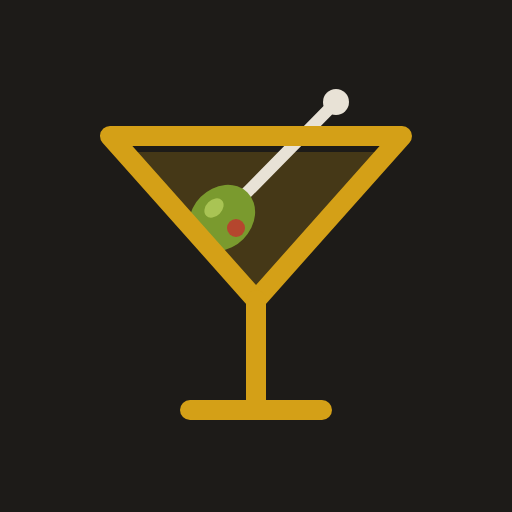
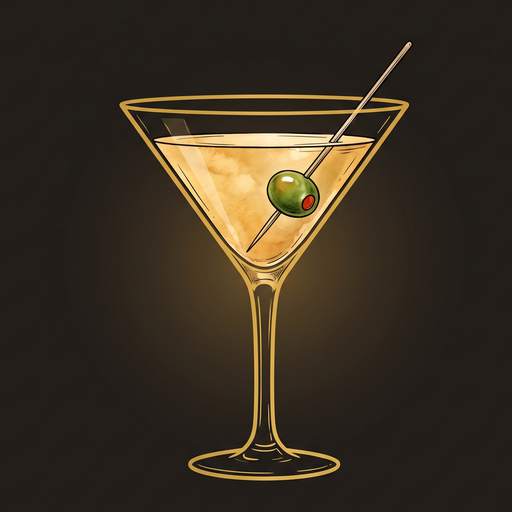
Nouvelle icône d'application (aquarelle Flow)
Claude-Session: https://claude.ai/code/session_017Zjpt6S1EDsr8xtp7PSGq8

Changed region(s): [[0.1875, 0.0625, 0.8125, 0.9375]]

diff --git a/sw.js b/sw.js
@@ -1,7 +1,7 @@
 // Fonctionnement hors connexion : le site est mis en cache à la première visite.
 // Changer VERSION à chaque mise à jour du contenu pour rafraîchir le cache.
-const VERSION = "socle-v30";
-const FICHIERS = ["./", "fonts/bebas-neue.woff2", "fonts/dm-sans-400.woff2", "fonts/dm-sans-500.woff2", "fonts/dm-sans-700.woff2", "app.js?v=30", "data/alcools.js?v=30", "data/cocktails.js?v=30", "data/savoirs.js?v=30", "data/emblemes.js?v=30", "data/autres.js?v=30", "img/accueil/poster.jpg", "img/bouteilles/bitter.png", "img/bouteilles/cachaca.png", "img/bouteilles/champagne.png", "img/bouteilles/cognac.png", "img/bouteilles/gin.png", "img/bouteilles/liqueurs.png", "img/bouteilles/rhum.png", "img/bouteilles/tequila.png", "img/bouteilles/vermouth-martini.png", "img/bouteilles/vermouth.png", "img/bouteilles/vodka.png", "img/bouteilles/whisky.png", "img/bouteilles/xeres.png", "img/bouteilles/x-anises.png", "img/bouteilles/x-armagnac.png", "img/bouteilles/x-calvados.png", "img/bouteilles/x-gentianes.png", "img/bouteilles/x-quinquinas.png", "img/bouteilles/x-vins-de-liqueur.png", "img/bouteilles/x-vins-doux-naturels.png", "img/cocktails/americano.jpg", "img/cocktails/aviation.jpg", "img/cocktails/bamboo.jpg", "img/cocktails/bellini.jpg", "img/cocktails/bloody-mary.jpg", "img/cocktails/bramble.jpg", "img/cocktails/caipirinha.jpg", "img/cocktails/champagne-cocktail.jpg", "img/cocktails/cosmopolitan.jpg", "img/cocktails/daiquiri.jpg", "img/cocktails/dark-and-stormy.jpg", "img/cocktails/dry-martini.jpg", "img/cocktails/espresso-martini.jpg", "img/cocktails/fizz.jpg", "img/cocktails/french-75.jpg", "img/cocktails/gin-basil-smash.jpg", "img/cocktails/horses-neck.jpg", "img/cocktails/mai-tai.jpg", "img/cocktails/manhattan.jpg", "img/cocktails/margarita.jpg", "img/cocktails/mint-julep.jpg", "img/cocktails/mojito.jpg", "img/cocktails/moscow-mule.jpg", "img/cocktails/negroni.jpg", "img/cocktails/old-fashioned.jpg", "img/cocktails/paloma.jpg", "img/cocktails/penicillin.jpg", "img/cocktails/pina-colada.jpg", "img/cocktails/planters-punch.jpg", "img/cocktails/pornstar-martini.jpg", "img/cocktails/rum-swizzle.jpg", "img/cocktails/sex-on-the-beach.jpg", "img/cocktails/sidecar.jpg", "img/cocktails/sour.jpg", "img/cocktails/spritz.jpg", "img/cocktails/tequila-sunrise.jpg", "img/icone/apple-touch-icon.png", "img/icone/favicon-32.png", "img/icone/icone-192.png", "img/icone/icone-512.png", "img/materiel/bec-verseur.jpg", "img/materiel/cuillere-bar.jpg", "img/materiel/doseur.jpg", "img/materiel/eplucheur.jpg", "img/materiel/passoire-cocktail.jpg", "img/materiel/passoire-fine.jpg", "img/materiel/passoire-julep.jpg", "img/materiel/pilon.jpg", "img/materiel/presse-agrumes.jpg", "img/materiel/shaker-boston.jpg", "img/materiel/shaker-continental.jpg", "img/materiel/shaker-trois-pieces.jpg", "img/materiel/verre-melange.jpg", "img/verres/absinthe.jpg", "img/verres/biere.jpg", "img/verres/copa.jpg", "img/verres/coupe.jpg", "img/verres/degustation.jpg", "img/verres/digestif.jpg", "img/verres/fantaisie.jpg", "img/verres/flute.jpg", "img/verres/highball.jpg", "img/verres/hurricane.jpg", "img/verres/julep.jpg", "img/verres/martini.jpg", "img/verres/mule.jpg", "img/verres/nick-nora.jpg", "img/verres/old-fashioned.jpg", "img/verres/punch.jpg", "img/verres/shot.jpg", "img/verres/tiki.jpg", "img/verres/toddy.jpg", "img/verres/vin.jpg", "index.html", "manifest.webmanifest?v=30", "style.css?v=30"];
+const VERSION = "socle-v31";
+const FICHIERS = ["./", "fonts/bebas-neue.woff2", "fonts/dm-sans-400.woff2", "fonts/dm-sans-500.woff2", "fonts/dm-sans-700.woff2", "app.js?v=31", "data/alcools.js?v=31", "data/cocktails.js?v=31", "data/savoirs.js?v=31", "data/emblemes.js?v=31", "data/autres.js?v=31", "img/accueil/poster.jpg", "img/bouteilles/bitter.png", "img/bouteilles/cachaca.png", "img/bouteilles/champagne.png", "img/bouteilles/cognac.png", "img/bouteilles/gin.png", "img/bouteilles/liqueurs.png", "img/bouteilles/rhum.png", "img/bouteilles/tequila.png", "img/bouteilles/vermouth-martini.png", "img/bouteilles/vermouth.png", "img/bouteilles/vodka.png", "img/bouteilles/whisky.png", "img/bouteilles/xeres.png", "img/bouteilles/x-anises.png", "img/bouteilles/x-armagnac.png", "img/bouteilles/x-calvados.png", "img/bouteilles/x-gentianes.png", "img/bouteilles/x-quinquinas.png", "img/bouteilles/x-vins-de-liqueur.png", "img/bouteilles/x-vins-doux-naturels.png", "img/cocktails/americano.jpg", "img/cocktails/aviation.jpg", "img/cocktails/bamboo.jpg", "img/cocktails/bellini.jpg", "img/cocktails/bloody-mary.jpg", "img/cocktails/bramble.jpg", "img/cocktails/caipirinha.jpg", "img/cocktails/champagne-cocktail.jpg", "img/cocktails/cosmopolitan.jpg", "img/cocktails/daiquiri.jpg", "img/cocktails/dark-and-stormy.jpg", "img/cocktails/dry-martini.jpg", "img/cocktails/espresso-martini.jpg", "img/cocktails/fizz.jpg", "img/cocktails/french-75.jpg", "img/cocktails/gin-basil-smash.jpg", "img/cocktails/horses-neck.jpg", "img/cocktails/mai-tai.jpg", "img/cocktails/manhattan.jpg", "img/cocktails/margarita.jpg", "img/cocktails/mint-julep.jpg", "img/cocktails/mojito.jpg", "img/cocktails/moscow-mule.jpg", "img/cocktails/negroni.jpg", "img/cocktails/old-fashioned.jpg", "img/cocktails/paloma.jpg", "img/cocktails/penicillin.jpg", "img/cocktails/pina-colada.jpg", "img/cocktails/planters-punch.jpg", "img/cocktails/pornstar-martini.jpg", "img/cocktails/rum-swizzle.jpg", "img/cocktails/sex-on-the-beach.jpg", "img/cocktails/sidecar.jpg", "img/cocktails/sour.jpg", "img/cocktails/spritz.jpg", "img/cocktails/tequila-sunrise.jpg", "img/icone/apple-touch-icon.png", "img/icone/favicon-32.png", "img/icone/icone-192.png", "img/icone/icone-512.png", "img/icone/icone-maskable-512.png", "img/materiel/bec-verseur.jpg", "img/materiel/cuillere-bar.jpg", "img/materiel/doseur.jpg", "img/materiel/eplucheur.jpg", "img/materiel/passoire-cocktail.jpg", "img/materiel/passoire-fine.jpg", "img/materiel/passoire-julep.jpg", "img/materiel/pilon.jpg", "img/materiel/presse-agrumes.jpg", "img/materiel/shaker-boston.jpg", "img/materiel/shaker-continental.jpg", "img/materiel/shaker-trois-pieces.jpg", "img/materiel/verre-melange.jpg", "img/verres/absinthe.jpg", "img/verres/biere.jpg", "img/verres/copa.jpg", "img/verres/coupe.jpg", "img/verres/degustation.jpg", "img/verres/digestif.jpg", "img/verres/fantaisie.jpg", "img/verres/flute.jpg", "img/verres/highball.jpg", "img/verres/hurricane.jpg", "img/verres/julep.jpg", "img/verres/martini.jpg", "img/verres/mule.jpg", "img/verres/nick-nora.jpg", "img/verres/old-fashioned.jpg", "img/verres/punch.jpg", "img/verres/shot.jpg", "img/verres/tiki.jpg", "img/verres/toddy.jpg", "img/verres/vin.jpg", "index.html", "manifest.webmanifest?v=31", "style.css?v=31"];
 
 self.addEventListener("install", (e) => {
   e.waitUntil(caches.open(VERSION).then((c) => c.addAll(FICHIERS)).then(() => self.skipWaiting()));

diff --git a/index.html b/index.html
@@ -9,14 +9,14 @@
   <link rel="icon" href="img/icone/icone.svg" type="image/svg+xml">
   <link rel="icon" href="img/icone/favicon-32.png" sizes="32x32" type="image/png">
   <link rel="apple-touch-icon" href="img/icone/apple-touch-icon.png">
-  <link rel="manifest" href="manifest.webmanifest?v=30">
+  <link rel="manifest" href="manifest.webmanifest?v=31">
   <meta name="apple-mobile-web-app-capable" content="yes">
   <meta name="mobile-web-app-capable" content="yes">
   <meta name="apple-mobile-web-app-title" content="Cocktails">
   <meta name="apple-mobile-web-app-status-bar-style" content="black">
   <link rel="preload" href="fonts/bebas-neue.woff2" as="font" type="font/woff2" crossorigin>
   <link rel="preload" href="fonts/dm-sans-400.woff2" as="font" type="font/woff2" crossorigin>
-  <link rel="stylesheet" href="style.css?v=30">
+  <link rel="stylesheet" href="style.css?v=31">
 </head>
 <body>
   <header class="topbar">
@@ -58,12 +58,12 @@
     <svg width="22" height="22" viewBox="0 0 24 24" fill="none" stroke="currentColor" stroke-width="2.4" stroke-linecap="round" stroke-linejoin="round" aria-hidden="true"><path d="M12 19V5"/><path d="M5 12l7-7 7 7"/></svg>
   </button>
 
-  <script src="data/cocktails.js?v=30"></script>
-  <script src="data/alcools.js?v=30"></script>
-  <script src="data/savoirs.js?v=30"></script>
-  <script src="data/emblemes.js?v=30"></script>
-  <script src="data/autres.js?v=30"></script>
-  <script src="app.js?v=30"></script>
+  <script src="data/cocktails.js?v=31"></script>
+  <script src="data/alcools.js?v=31"></script>
+  <script src="data/savoirs.js?v=31"></script>
+  <script src="data/emblemes.js?v=31"></script>
+  <script src="data/autres.js?v=31"></script>
+  <script src="app.js?v=31"></script>
   <script>if ("serviceWorker" in navigator) { window.addEventListener("load", function () { navigator.serviceWorker.register("sw.js"); }); }</script>
 </body>
 </html>
